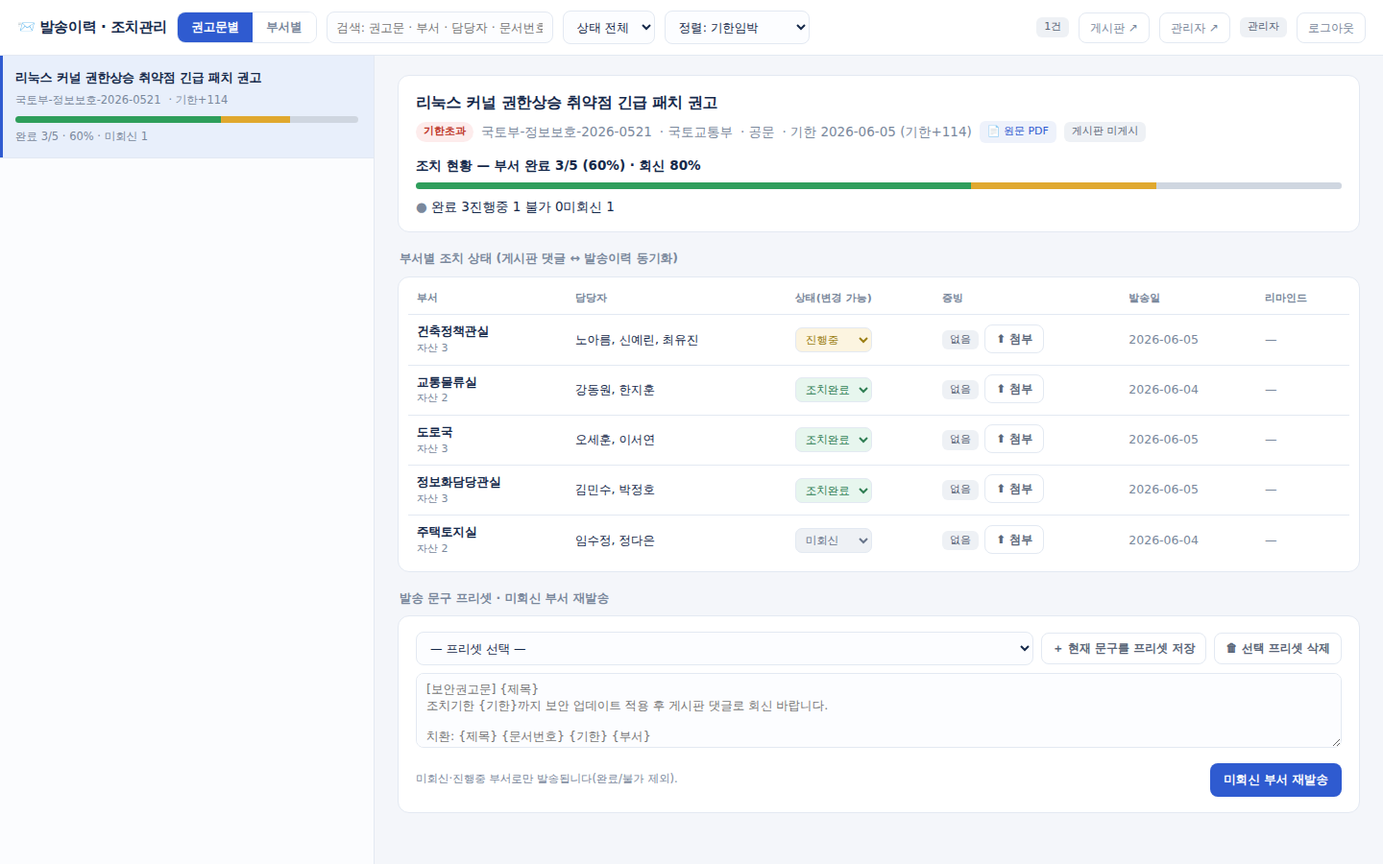
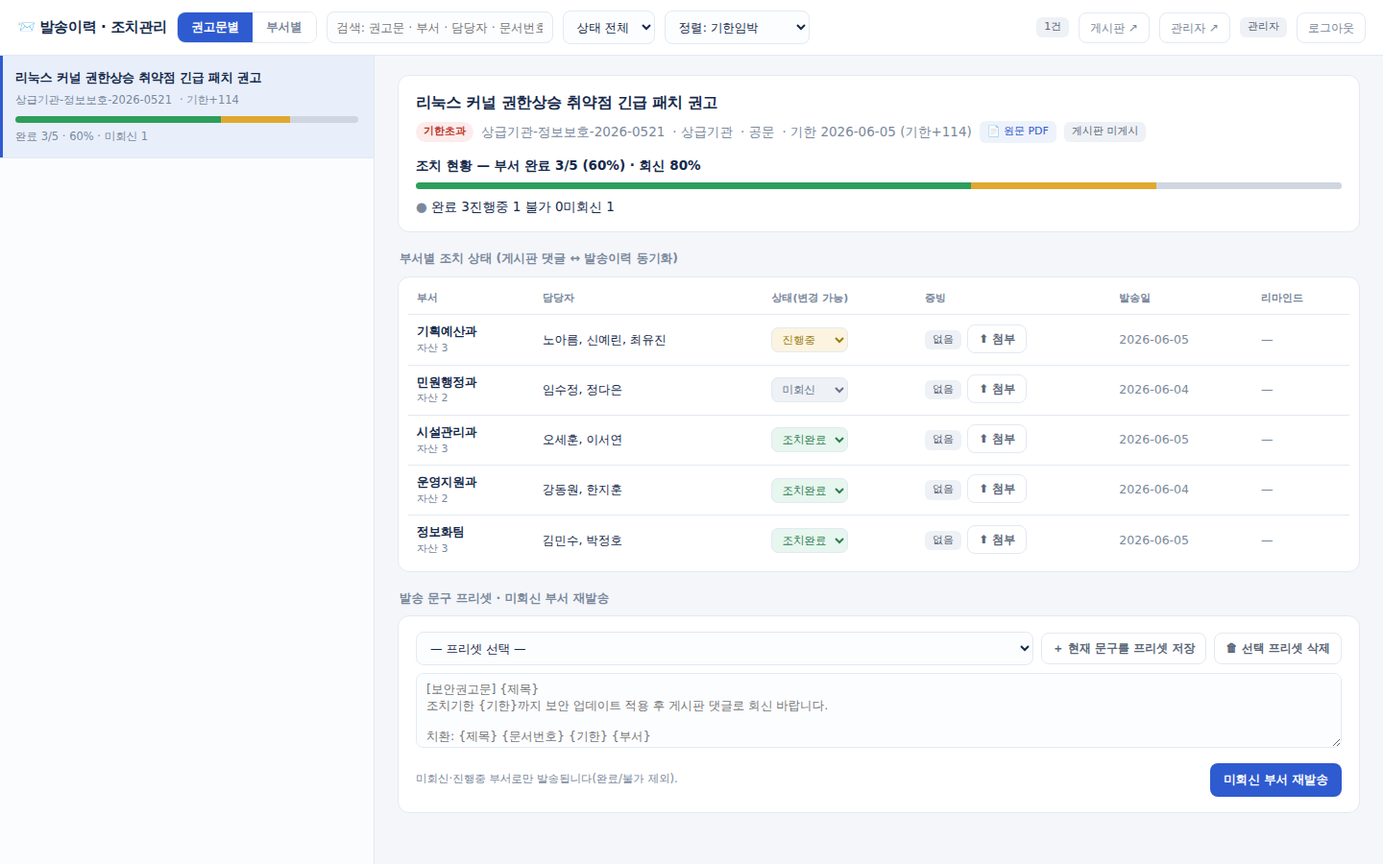
Replace real organization names in seed, tests, mockups and docs with generic ones
Claude-Session: https://claude.ai/code/session_019WHQmhFu6UJU12sLXYK4ET

diff --git a/mockups/board-mockup.html b/mockups/board-mockup.html
@@ -75,8 +75,8 @@
 <script>
 const ACK_KO={DONE:"조치완료",IN_PROGRESS:"진행중",UNABLE:"조치불가"};
 const CH_KO={NCST:"국정원 NCST",WEBMAIL:"웹메일",OFFICIAL_DOC:"공문"};
-const DEPTS=["도로국","철도국","항공정책실","물류정책관","건설정책국","정보통신담당관","기획조정실",
-  "주택정책관","교통물류실","대중교통과","자동차정책관","수자원정책국"].map((n,i)=>({id:i+1,name:n}));
+const DEPTS=["시설관리과","철도국","대외협력과","물류정책관","건설정책국","정보통신담당관","기획조정실",
+  "주택정책관","운영지원과","대중교통과","자동차정책관","수자원정책국"].map((n,i)=>({id:i+1,name:n}));
 const FILTER={q:"",excludeDone:true};
 let _searchT;
 
@@ -85,12 +85,12 @@ const ADV=[
   { id:1, doc_no:"국정원-사이버-2026-0612", title:"Microsoft Windows LSA 원격코드실행 취약점 긴급 조치 권고",
     source_org:"국가정보원", receive_channel:"NCST", received_at:"2026-06-15", due_at:"2026-06-22",
     d_day:3, sla_status:"IMMINENT", max_severity:"CRITICAL", max_severity_ko:"긴급", completed:false,
-    depts:[{name:"도로국",ack:"DONE"},{name:"철도국",ack:"IN_PROGRESS"},{name:"항공정책실",ack:"NONE"},{name:"정보통신담당관",ack:"NONE"}],
+    depts:[{name:"시설관리과",ack:"DONE"},{name:"철도국",ack:"IN_PROGRESS"},{name:"대외협력과",ack:"NONE"},{name:"정보통신담당관",ack:"NONE"}],
     assets:[
-      {asset_no:"PC-2207", dept:"도로국", product:"Windows 11", version:"23H2", owner_name:"박도로", owner_contact:"02-123-0102", severity:"CRITICAL", cve:"CVE-2026-21345"},
-      {asset_no:"SVR-0102", dept:"도로국", product:"Windows Server 2022", version:"21H2", owner_name:"박도로", owner_contact:"02-123-0102", severity:"HIGH", cve:"CVE-2026-21360"},
+      {asset_no:"PC-2207", dept:"시설관리과", product:"Windows 11", version:"23H2", owner_name:"박도로", owner_contact:"02-123-0102", severity:"CRITICAL", cve:"CVE-2026-21345"},
+      {asset_no:"SVR-0102", dept:"시설관리과", product:"Windows Server 2022", version:"21H2", owner_name:"박도로", owner_contact:"02-123-0102", severity:"HIGH", cve:"CVE-2026-21360"},
       {asset_no:"SVR-0310", dept:"철도국", product:"Windows Server 2022", version:"22H2", owner_name:"이철도", owner_contact:"02-123-0310", severity:"HIGH", cve:"CVE-2026-21360"},
-      {asset_no:"PC-5521", dept:"항공정책실", product:"Microsoft Office", version:"2021", owner_name:"정항공", owner_contact:"02-123-5521", severity:"HIGH", cve:"CVE-2026-21401"},
+      {asset_no:"PC-5521", dept:"대외협력과", product:"Microsoft Office", version:"2021", owner_name:"정항공", owner_contact:"02-123-5521", severity:"HIGH", cve:"CVE-2026-21401"},
       {asset_no:"PC-9001", dept:"정보통신담당관", product:"Windows 11", version:"22H2", owner_name:"김관제", owner_contact:"02-123-9001", severity:"CRITICAL", cve:"CVE-2026-21345"},
     ],
     cves:[
@@ -100,12 +100,12 @@ const ADV=[
     ],
     comments:[
       {id:101, author_name:"김관제", department:"정보통신담당관", is_admin:true, ack_status:null, created_at:"2026-06-16T09:12", body:"각 부서 자산 중 Windows 11 22H2/23H2, Server 2022 대상입니다. 6/22까지 패치 후 댓글로 회신 바랍니다."},
-      {id:102, author_name:"박도로", department:"도로국", is_admin:false, ack_status:"DONE", created_at:"2026-06-17T14:30", body:"PC-2207, SVR-0102 6월 정기패치로 적용 완료했습니다."},
+      {id:102, author_name:"박도로", department:"시설관리과", is_admin:false, ack_status:"DONE", created_at:"2026-06-17T14:30", body:"PC-2207, SVR-0102 6월 정기패치로 적용 완료했습니다."},
       {id:103, author_name:"이철도", department:"철도국", is_admin:false, ack_status:"IN_PROGRESS", created_at:"2026-06-18T10:05", body:"SVR-0310은 점검창구 일정상 6/21 야간작업 예정입니다."},
     ],
   },
-  { id:2, doc_no:"국토부-정보보호-2026-0531", title:"Apache Log4j2 관련 추가 취약점 점검 및 패치 권고(공문)",
-    source_org:"국토교통부", receive_channel:"OFFICIAL_DOC", received_at:"2026-06-10", due_at:"2026-06-30",
+  { id:2, doc_no:"상급기관-정보보호-2026-0531", title:"Apache Log4j2 관련 추가 취약점 점검 및 패치 권고(공문)",
+    source_org:"상급기관", receive_channel:"OFFICIAL_DOC", received_at:"2026-06-10", due_at:"2026-06-30",
     d_day:11, sla_status:"NORMAL", max_severity:"HIGH", max_severity_ko:"높음", completed:false,
     depts:[{name:"물류정책관",ack:"UNABLE"},{name:"건설정책국",ack:"DONE"},{name:"정보통신담당관",ack:"NONE"}],
     assets:[
@@ -124,11 +124,11 @@ const ADV=[
   { id:3, doc_no:"국정원-사이버-2026-0588", title:"Google Chrome V8 엔진 임의코드실행 취약점 (웹메일 통보)",
     source_org:"국가정보원", receive_channel:"WEBMAIL", received_at:"2026-06-05", due_at:"2026-06-12",
     d_day:-7, sla_status:"OVERDUE", max_severity:"HIGH", max_severity_ko:"높음", completed:false,
-    depts:[{name:"도로국",ack:"DONE"},{name:"철도국",ack:"DONE"},{name:"항공정책실",ack:"IN_PROGRESS"}],
+    depts:[{name:"시설관리과",ack:"DONE"},{name:"철도국",ack:"DONE"},{name:"대외협력과",ack:"IN_PROGRESS"}],
     assets:[
-      {asset_no:"PC-2207", dept:"도로국", product:"Google Chrome", version:"122", owner_name:"박도로", owner_contact:"02-123-0102", severity:"HIGH", cve:"CVE-2026-30012"},
+      {asset_no:"PC-2207", dept:"시설관리과", product:"Google Chrome", version:"122", owner_name:"박도로", owner_contact:"02-123-0102", severity:"HIGH", cve:"CVE-2026-30012"},
       {asset_no:"PC-3210", dept:"철도국", product:"Google Chrome", version:"121", owner_name:"이철도", owner_contact:"02-123-0310", severity:"HIGH", cve:"CVE-2026-30012"},
-      {asset_no:"PC-5521", dept:"항공정책실", product:"Google Chrome", version:"120", owner_name:"정항공", owner_contact:"02-123-5521", severity:"HIGH", cve:"CVE-2026-30012"},
+      {asset_no:"PC-5521", dept:"대외협력과", product:"Google Chrome", version:"120", owner_name:"정항공", owner_contact:"02-123-5521", severity:"HIGH", cve:"CVE-2026-30012"},
     ],
     cves:[{cve_id_text:"CVE-2026-30012", severity:"HIGH", product_name:"Google Chrome", lookup_status:"FOUND"}],
     comments:[{id:301, author_name:"김관제", department:"정보통신담당관", is_admin:true, ack_status:null, created_at:"2026-06-06T09:00", body:"전 부서 크롬 124 미만 → 124 이상으로 업데이트 바랍니다."}],

diff --git a/mockups/history-A-master-detail.html b/mockups/history-A-master-detail.html
@@ -47,11 +47,11 @@ const KO={DONE:"완료",IN_PROGRESS:"진행중",UNABLE:"불가",NONE:"미회신"
 const CH={NCST:"국정원 NCST",WEBMAIL:"웹메일",OFFICIAL_DOC:"공문"};
 const ADVS=[
  {id:1,doc:"국정원-사이버-2026-0612",title:"Windows LSA 원격코드실행 긴급 조치",org:"국가정보원",ch:"NCST",sev:"CRITICAL",due:"2026-06-22",dday:3,
-  depts:[{dept:"도로국",owner:"박도로",status:"DONE",sent:"06-16",ev:"패치완료_도로국.png"},{dept:"철도국",owner:"이철도",status:"IN_PROGRESS",sent:"06-16",ev:null},{dept:"항공정책실",owner:"정항공",status:"NONE",sent:"06-16",ev:null},{dept:"정보통신담당관",owner:"김관제",status:"DONE",sent:"06-16",ev:"점검스크린샷.png"}]},
- {id:2,doc:"국토부-정보보호-2026-0531",title:"Apache Log4j2 추가 취약점 패치",org:"국토교통부",ch:"OFFICIAL_DOC",sev:"HIGH",due:"2026-06-30",dday:11,
+  depts:[{dept:"시설관리과",owner:"박도로",status:"DONE",sent:"06-16",ev:"패치완료_시설관리과.png"},{dept:"철도국",owner:"이철도",status:"IN_PROGRESS",sent:"06-16",ev:null},{dept:"대외협력과",owner:"정항공",status:"NONE",sent:"06-16",ev:null},{dept:"정보통신담당관",owner:"김관제",status:"DONE",sent:"06-16",ev:"점검스크린샷.png"}]},
+ {id:2,doc:"상급기관-정보보호-2026-0531",title:"Apache Log4j2 추가 취약점 패치",org:"상급기관",ch:"OFFICIAL_DOC",sev:"HIGH",due:"2026-06-30",dday:11,
   depts:[{dept:"물류정책관",owner:"정물류",status:"UNABLE",sent:"06-11",ev:null},{dept:"건설정책국",owner:"한건설",status:"DONE",sent:"06-11",ev:"조치결과.pdf"},{dept:"정보통신담당관",owner:"김관제",status:"NONE",sent:"06-11",ev:null}]},
  {id:3,doc:"국정원-사이버-2026-0588",title:"Google Chrome V8 임의코드실행",org:"국가정보원",ch:"WEBMAIL",sev:"HIGH",due:"2026-06-12",dday:-7,
-  depts:[{dept:"도로국",owner:"박도로",status:"DONE",sent:"06-06",ev:"chrome_update.png"},{dept:"철도국",owner:"이철도",status:"DONE",sent:"06-06",ev:null},{dept:"항공정책실",owner:"정항공",status:"IN_PROGRESS",sent:"06-06",ev:null}]},
+  depts:[{dept:"시설관리과",owner:"박도로",status:"DONE",sent:"06-06",ev:"chrome_update.png"},{dept:"철도국",owner:"이철도",status:"DONE",sent:"06-06",ev:null},{dept:"대외협력과",owner:"정항공",status:"IN_PROGRESS",sent:"06-06",ev:null}]},
 ];
 const PRESETS=["[긴급] 보안권고 즉시조치 요청","[정기] 월간 보안패치 안내","[리마인드] 조치기한 임박 안내"];
 let VIEW="adv", SEL=1;

diff --git a/mockups/history-B-table.html b/mockups/history-B-table.html
@@ -41,11 +41,11 @@ const KO={DONE:"완료",IN_PROGRESS:"진행중",UNABLE:"불가",NONE:"미회신"
 const CH={NCST:"국정원 NCST",WEBMAIL:"웹메일",OFFICIAL_DOC:"공문"};
 const ADVS=[
  {id:1,doc:"국정원-사이버-2026-0612",title:"Windows LSA 원격코드실행 긴급 조치",org:"국가정보원",ch:"NCST",sev:"CRITICAL",due:"2026-06-22",dday:3,
-  depts:[{dept:"도로국",owner:"박도로",status:"DONE",sent:"06-16",ev:"패치완료_도로국.png"},{dept:"철도국",owner:"이철도",status:"IN_PROGRESS",sent:"06-16",ev:null},{dept:"항공정책실",owner:"정항공",status:"NONE",sent:"06-16",ev:null},{dept:"정보통신담당관",owner:"김관제",status:"DONE",sent:"06-16",ev:"점검스크린샷.png"}]},
- {id:2,doc:"국토부-정보보호-2026-0531",title:"Apache Log4j2 추가 취약점 패치",org:"국토교통부",ch:"OFFICIAL_DOC",sev:"HIGH",due:"2026-06-30",dday:11,
+  depts:[{dept:"시설관리과",owner:"박도로",status:"DONE",sent:"06-16",ev:"패치완료_시설관리과.png"},{dept:"철도국",owner:"이철도",status:"IN_PROGRESS",sent:"06-16",ev:null},{dept:"대외협력과",owner:"정항공",status:"NONE",sent:"06-16",ev:null},{dept:"정보통신담당관",owner:"김관제",status:"DONE",sent:"06-16",ev:"점검스크린샷.png"}]},
+ {id:2,doc:"상급기관-정보보호-2026-0531",title:"Apache Log4j2 추가 취약점 패치",org:"상급기관",ch:"OFFICIAL_DOC",sev:"HIGH",due:"2026-06-30",dday:11,
   depts:[{dept:"물류정책관",owner:"정물류",status:"UNABLE",sent:"06-11",ev:null},{dept:"건설정책국",owner:"한건설",status:"DONE",sent:"06-11",ev:"조치결과.pdf"},{dept:"정보통신담당관",owner:"김관제",status:"NONE",sent:"06-11",ev:null}]},
  {id:3,doc:"국정원-사이버-2026-0588",title:"Google Chrome V8 임의코드실행",org:"국가정보원",ch:"WEBMAIL",sev:"HIGH",due:"2026-06-12",dday:-7,
-  depts:[{dept:"도로국",owner:"박도로",status:"DONE",sent:"06-06",ev:"chrome_update.png"},{dept:"철도국",owner:"이철도",status:"DONE",sent:"06-06",ev:null},{dept:"항공정책실",owner:"정항공",status:"IN_PROGRESS",sent:"06-06",ev:null}]},
+  depts:[{dept:"시설관리과",owner:"박도로",status:"DONE",sent:"06-06",ev:"chrome_update.png"},{dept:"철도국",owner:"이철도",status:"DONE",sent:"06-06",ev:null},{dept:"대외협력과",owner:"정항공",status:"IN_PROGRESS",sent:"06-06",ev:null}]},
 ];
 let VIEW="adv",SORT="due",DIR=1,OPEN={};
 const esc=s=>(s==null?"":String(s)).replace(/[&<>"]/g,c=>({"&":"&amp;","<":"&lt;",">":"&gt;","\"":"&quot;"}[c]));

diff --git a/mockups/history-C-kanban.html b/mockups/history-C-kanban.html
@@ -40,11 +40,11 @@ const COLS=["NONE","IN_PROGRESS","DONE","UNABLE"];
 const CH={NCST:"국정원 NCST",WEBMAIL:"웹메일",OFFICIAL_DOC:"공문"};
 const ADVS=[
  {id:1,doc:"국정원-사이버-2026-0612",title:"Windows LSA 원격코드실행 긴급 조치",org:"국가정보원",ch:"NCST",sev:"CRITICAL",due:"2026-06-22",
-  depts:[{dept:"도로국",owner:"박도로",status:"DONE",ev:"패치완료_도로국.png"},{dept:"철도국",owner:"이철도",status:"IN_PROGRESS",ev:null},{dept:"항공정책실",owner:"정항공",status:"NONE",ev:null},{dept:"정보통신담당관",owner:"김관제",status:"DONE",ev:"점검스크린샷.png"}]},
- {id:2,doc:"국토부-정보보호-2026-0531",title:"Apache Log4j2 추가 취약점 패치",org:"국토교통부",ch:"OFFICIAL_DOC",sev:"HIGH",due:"2026-06-30",
+  depts:[{dept:"시설관리과",owner:"박도로",status:"DONE",ev:"패치완료_시설관리과.png"},{dept:"철도국",owner:"이철도",status:"IN_PROGRESS",ev:null},{dept:"대외협력과",owner:"정항공",status:"NONE",ev:null},{dept:"정보통신담당관",owner:"김관제",status:"DONE",ev:"점검스크린샷.png"}]},
+ {id:2,doc:"상급기관-정보보호-2026-0531",title:"Apache Log4j2 추가 취약점 패치",org:"상급기관",ch:"OFFICIAL_DOC",sev:"HIGH",due:"2026-06-30",
   depts:[{dept:"물류정책관",owner:"정물류",status:"UNABLE",ev:null},{dept:"건설정책국",owner:"한건설",status:"DONE",ev:"조치결과.pdf"},{dept:"정보통신담당관",owner:"김관제",status:"NONE",ev:null}]},
  {id:3,doc:"국정원-사이버-2026-0588",title:"Google Chrome V8 임의코드실행",org:"국가정보원",ch:"WEBMAIL",sev:"HIGH",due:"2026-06-12",
-  depts:[{dept:"도로국",owner:"박도로",status:"DONE",ev:"chrome_update.png"},{dept:"철도국",owner:"이철도",status:"DONE",ev:null},{dept:"항공정책실",owner:"정항공",status:"IN_PROGRESS",ev:null}]},
+  depts:[{dept:"시설관리과",owner:"박도로",status:"DONE",ev:"chrome_update.png"},{dept:"철도국",owner:"이철도",status:"DONE",ev:null},{dept:"대외협력과",owner:"정항공",status:"IN_PROGRESS",ev:null}]},
 ];
 let VIEW="pair";
 const esc=s=>(s==null?"":String(s)).replace(/[&<>"]/g,c=>({"&":"&amp;","<":"&lt;",">":"&gt;","\"":"&quot;"}[c]));

diff --git a/app/seed.py b/app/seed.py
@@ -21,28 +21,28 @@ from .models import (
 )
 
 DEPARTMENTS = [
-    "정보화담당관실", "도로국", "건축정책관실", "교통물류실",
-    "국토정책관실", "주택토지실", "항공정책실", "수자원정책관실",
+    "정보화팀", "시설관리과", "기획예산과", "운영지원과",
+    "정책기획과", "민원행정과", "대외협력과", "환경안전과",
 ]
 
 # product_raw, product_key, version_raw/version_norm 는 동일 문자열 사용.
 ASSETS = [
-    ("PC-0142", "정보화담당관실", "Windows 11", "windows_11", "23H2", "10.20.3.14", "김민수"),
-    ("PC-0188", "도로국", "Windows 11", "windows_11", "22H2", "10.20.5.21", "이서연"),
-    ("PC-0233", "건축정책관실", "Windows 11", "windows_11", "23H2", "10.20.6.33", "최유진"),
-    ("PC-0260", "교통물류실", "Windows 11", "windows_11", "22H2", "10.20.7.12", "한지훈"),
-    ("PC-0420", "국토정책관실", "Windows 11", "windows_11", "23H2", "10.20.9.07", "윤가람"),
-    ("PC-0301", "주택토지실", "Windows 10", "windows_10", "22H2", "10.20.8.44", "정다은"),
-    ("SRV-002", "정보화담당관실", "Windows Server", "windows_server", "2022", "10.20.1.05", "박정호"),
-    ("SRV-009", "도로국", "Windows Server", "windows_server", "2019", "10.20.1.21", "오세훈"),
-    ("OFC-110", "건축정책관실", "Microsoft Office", "microsoft_office", "2021", None, "신예린"),
-    ("OFC-118", "교통물류실", "Microsoft Office", "microsoft_office", "2019", None, "강동원"),
-    ("OFC-203", "주택토지실", "Microsoft Office", "microsoft_office", "2021", None, "임수정"),
-    ("WEB-031", "정보화담당관실", "Google Chrome", "google_chrome", "122.x", None, "자동배포"),
-    ("WEB-044", "도로국", "Google Chrome", "google_chrome", "121.x", None, "자동배포"),
-    ("HWP-070", "항공정책실", "한컴오피스", "hancom_office", "2022", None, "송민재"),
-    ("HWP-072", "수자원정책관실", "한컴오피스", "hancom_office", "2020", None, "배현우"),
-    ("PDF-090", "건축정책관실", "Adobe Acrobat", "adobe_acrobat", "DC 2021", None, "노아름"),
+    ("PC-0142", "정보화팀", "Windows 11", "windows_11", "23H2", "10.20.3.14", "김민수"),
+    ("PC-0188", "시설관리과", "Windows 11", "windows_11", "22H2", "10.20.5.21", "이서연"),
+    ("PC-0233", "기획예산과", "Windows 11", "windows_11", "23H2", "10.20.6.33", "최유진"),
+    ("PC-0260", "운영지원과", "Windows 11", "windows_11", "22H2", "10.20.7.12", "한지훈"),
+    ("PC-0420", "정책기획과", "Windows 11", "windows_11", "23H2", "10.20.9.07", "윤가람"),
+    ("PC-0301", "민원행정과", "Windows 10", "windows_10", "22H2", "10.20.8.44", "정다은"),
+    ("SRV-002", "정보화팀", "Windows Server", "windows_server", "2022", "10.20.1.05", "박정호"),
+    ("SRV-009", "시설관리과", "Windows Server", "windows_server", "2019", "10.20.1.21", "오세훈"),
+    ("OFC-110", "기획예산과", "Microsoft Office", "microsoft_office", "2021", None, "신예린"),
+    ("OFC-118", "운영지원과", "Microsoft Office", "microsoft_office", "2019", None, "강동원"),
+    ("OFC-203", "민원행정과", "Microsoft Office", "microsoft_office", "2021", None, "임수정"),
+    ("WEB-031", "정보화팀", "Google Chrome", "google_chrome", "122.x", None, "자동배포"),
+    ("WEB-044", "시설관리과", "Google Chrome", "google_chrome", "121.x", None, "자동배포"),
+    ("HWP-070", "대외협력과", "한컴오피스", "hancom_office", "2022", None, "송민재"),
+    ("HWP-072", "환경안전과", "한컴오피스", "hancom_office", "2020", None, "배현우"),
+    ("PDF-090", "기획예산과", "Adobe Acrobat", "adobe_acrobat", "DC 2021", None, "노아름"),
 ]
 
 # 기본 등록 CVE(조회 가능). 한컴/Acrobat 2건은 피드로 추가(samples/).
@@ -157,14 +157,14 @@ def seed(db: Session) -> None:
 
     # 과거 완료 권고문 + 발송 이력(대시보드/이력 화면용).
     past = Advisory(
-        doc_no="국토부-정보보호-2026-0521",
+        doc_no="상급기관-정보보호-2026-0521",
         title="리눅스 커널 권한상승 취약점 긴급 패치 권고",
-        source_org="국토교통부", receive_channel=enums.ReceiveChannel.OFFICIAL_DOC,
+        source_org="상급기관", receive_channel=enums.ReceiveChannel.OFFICIAL_DOC,
         received_at=date(2026, 5, 28), due_at=date(2026, 6, 5),
         page_count=1, extracted_text="CVE-2026-10010 linux kernel",
         status=enums.AdvisoryStatus.COMPLETED, uploaded_by=analyst.id,
     )
-    ppdf = _minimal_pdf(["Linux Kernel EoP Advisory", "Doc: 국토부-정보보호-2026-0521"])
+    ppdf = _minimal_pdf(["Linux Kernel EoP Advisory", "Doc: 상급기관-정보보호-2026-0521"])
     psha = extract.sha256_bytes(ppdf)
     secure_write_bytes(UPLOAD_DIR / f"{psha}.pdf", ppdf)
     past.file_path = str(UPLOAD_DIR / f"{psha}.pdf")
@@ -174,11 +174,11 @@ def seed(db: Session) -> None:
 
     base_dt = datetime(2026, 6, 5, 14, 22, tzinfo=timezone.utc)
     for i, (dept, acked, channels) in enumerate([
-        ("정보화담당관실", enums.AckStatus.DONE, ["MESSENGER", "MAIL"]),
-        ("도로국", enums.AckStatus.DONE, ["MESSENGER", "MAIL"]),
-        ("건축정책관실", enums.AckStatus.IN_PROGRESS, ["MAIL"]),
-        ("교통물류실", enums.AckStatus.DONE, ["MESSENGER"]),
-        ("주택토지실", enums.AckStatus.NONE, ["MAIL"]),
+        ("정보화팀", enums.AckStatus.DONE, ["MESSENGER", "MAIL"]),
+        ("시설관리과", enums.AckStatus.DONE, ["MESSENGER", "MAIL"]),
+        ("기획예산과", enums.AckStatus.IN_PROGRESS, ["MAIL"]),
+        ("운영지원과", enums.AckStatus.DONE, ["MESSENGER"]),
+        ("민원행정과", enums.AckStatus.NONE, ["MAIL"]),
     ]):
         dept_asset_ids = list(db.scalars(
             select(Asset.id).where(Asset.department_id == depts[dept].id).limit(3)))

diff --git a/smoke_test.py b/smoke_test.py
@@ -179,7 +179,7 @@ with TestClient(app) as c:
     wb = Workbook()
     ws = wb.active
     ws.append(["자산번호", "사용부서", "운영체제/SW", "세부버전", "IP", "담당자"])
-    ws.append(["PC-9001", "도로국", "Windows 11", "23H2", "10.20.5.99", "테스터"])
+    ws.append(["PC-9001", "시설관리과", "Windows 11", "23H2", "10.20.5.99", "테스터"])
     ws.append(["PC-9002", "없는부서", "Windows 11", "22H2", "", "미상"])
     buf = io.BytesIO()
     wb.save(buf)
@@ -256,9 +256,9 @@ with TestClient(app) as c:
     r = c.post(f"/api/v1/advisories/{aid}/board").json()
     check("게시판 게시", str(r.get("board_post_id", "")).startswith("BOARD-"), r)
     r = signed_webhook_post(c, "/api/v1/webhooks/groupware/ack",
-                            {"department": "도로국", "status": "완료", "by": "댓글회신"})
+                            {"department": "시설관리과", "status": "완료", "by": "댓글회신"})
     check("게시판 회신→ack 동기화", r.status_code == 200 and r.json()["ack_status"] == "DONE", r.status_code)
-    r = c.post("/api/v1/webhooks/groupware/ack", json={"department": "도로국", "status": "완료"})
+    r = c.post("/api/v1/webhooks/groupware/ack", json={"department": "시설관리과", "status": "완료"})
     check("무서명 웹훅 거부(H-4)", r.status_code == 401, r.status_code)
     # ── 대시보드 SLA ──
     dash2 = c.get("/api/v1/dashboard").json()
@@ -269,14 +269,14 @@ with TestClient(app) as c:
     ws2 = wb2.active
     ws2.append(["○○부 자산관리대장", None, None, None, None, None])              # 1행: 제목(병합)
     ws2.append(["자산번호", "사용부서", "운영체제/SW", "세부버전", "IP", "담당자"])  # 2행: 실제 헤더
-    ws2.append(["PC-2001", "정보화담당관실", "Windows 11", "23H2", "10.30.1.1", "박하나"])
+    ws2.append(["PC-2001", "정보화팀", "Windows 11", "23H2", "10.30.1.1", "박하나"])
     ws2.append(["PC-2002", None, "Windows 11", "22H2", "10.30.1.2", "박두리"])      # 부서 세로병합
-    ws2.append(["PC-2003", "도로국", "Windows Server", "2022", "10.30.2.1", "이세찬"])
+    ws2.append(["PC-2003", "시설관리과", "Windows Server", "2022", "10.30.2.1", "이세찬"])
     ws2.append(["PC-2004", None, "Microsoft Office", "2021", "", "이네찬"])         # 부서 세로병합
     ws2.append(["PC-2005", None, "Google Chrome", "122.x", "", "이다찬"])           # 부서 세로병합
     ws2.merge_cells("A1:F1")
-    ws2.merge_cells("B3:B4")   # 정보화담당관실 (행3~4)
-    ws2.merge_cells("B5:B7")   # 도로국 (행5~7)
+    ws2.merge_cells("B3:B4")   # 정보화팀 (행3~4)
+    ws2.merge_cells("B5:B7")   # 시설관리과 (행5~7)
     buf2 = io.BytesIO()
     wb2.save(buf2)
     buf2.seek(0)
@@ -291,15 +291,15 @@ with TestClient(app) as c:
     dept_warn = [w for w in r["warnings"] if "DEPARTMENT" in w["issue"]]
     check("세로병합 부서 채움→5행 전부 적재(누락 0)", r["committed"] == 5 and len(dept_warn) == 0, r)
     a = c.get("/api/v1/assets?q=PC-2005").json()["items"]
-    check("병합 마지막행 부서=도로국(채워짐)", bool(a) and a[0]["department"] == "도로국", a)
+    check("병합 마지막행 부서=시설관리과(채워짐)", bool(a) and a[0]["department"] == "시설관리과", a)
 
     # ========== 엑셀: 2층(다단) 헤더 결합 ==========
     wb3 = Workbook()
     ws3 = wb3.active
     ws3.append(["자산번호", "사용부서", "제품", None, "담당자"])   # 1층: 그룹 라벨
     ws3.append([None, None, "OS", "버전", None])                  # 2층: 세부 라벨
-    ws3.append(["PC-3001", "정보화담당관실", "Windows 11", "23H2", "담당가"])
-    ws3.append(["PC-3002", "도로국", "Windows Server", "2022", "담당나"])
+    ws3.append(["PC-3001", "정보화팀", "Windows 11", "23H2", "담당가"])
+    ws3.append(["PC-3002", "시설관리과", "Windows Server", "2022", "담당나"])
     ws3.merge_cells("C1:D1")  # "제품" 이 OS·버전 두 칸 위에 걸침
     ws3.merge_cells("A1:A2"); ws3.merge_cells("B1:B2"); ws3.merge_cells("E1:E2")  # 세로 병합 헤더
     buf3 = io.BytesIO()

diff --git a/tests/test_assets_import_custom_fields.py b/tests/test_assets_import_custom_fields.py
@@ -10,8 +10,8 @@ from openpyxl import Workbook
 def _xlsx_bytes():
     wb = Workbook(); ws = wb.active
     ws.append(["부서", "제품", "구매일자", "비고"])
-    ws.append(["정보화담당관실", "Windows 11 23H2", "2025-01-15", "리스자산"])
-    ws.append(["도로국", "Microsoft Office 2021", "2024-11-02", ""])
+    ws.append(["정보화팀", "Windows 11 23H2", "2025-01-15", "리스자산"])
+    ws.append(["시설관리과", "Microsoft Office 2021", "2024-11-02", ""])
     buf = io.BytesIO(); wb.save(buf); return buf.getvalue()
 
 
@@ -32,7 +32,7 @@ def test_custom_named_field_stored_in_extra(client):
     from app.db import SessionLocal
     from app.models import Asset, Department
     with SessionLocal() as db:
-        dept = db.query(Department).filter(Department.name == "정보화담당관실").first()
+        dept = db.query(Department).filter(Department.name == "정보화팀").first()
         a = db.query(Asset).filter(Asset.department_id == dept.id).first()
         assert a is not None
         assert a.extra.get("구매일자") == "2025-01-15", a.extra   # 이름 키 저장 ✅

diff --git a/tests/test_extraction_overhaul_api.py b/tests/test_extraction_overhaul_api.py
@@ -151,10 +151,10 @@ def test_bulk_source_only_empty(client, cleanup):
     cleanup["advisory"] += [a1, a2]
 
     r = client.post("/api/v1/advisories/source-org",
-                    json={"ids": [a1, a2], "source_org": "국토부", "only_empty": True})
+                    json={"ids": [a1, a2], "source_org": "상급기관", "only_empty": True})
     assert r.status_code == 200
-    assert r.json() == {"updated": 1, "skipped": 1, "source_org": "국토부"}
-    assert client.get(f"/api/v1/advisories/{a1}").json()["source_org"] == "국토부"
+    assert r.json() == {"updated": 1, "skipped": 1, "source_org": "상급기관"}
+    assert client.get(f"/api/v1/advisories/{a1}").json()["source_org"] == "상급기관"
     assert client.get(f"/api/v1/advisories/{a2}").json()["source_org"] == "국정원"
 
 

diff --git a/tests/test_ops_followup.py b/tests/test_ops_followup.py
@@ -106,7 +106,7 @@ def test_feed_apply_failure_marks_history_failed(client):
 
 def test_advisory_index_search_and_products_in_list(client, cleanup):
     """문서번호 중심 관리 인덱스(§개편 후속 6) — CVE 없어도 문서번호·제품으로 검색."""
-    aid = _upload(client, ["Tomcat vuln"], doc_no="국토부-특별-2026-777", source_org="국토부")
+    aid = _upload(client, ["Tomcat vuln"], doc_no="상급기관-특별-2026-777", source_org="상급기관")
     cleanup["advisory"].append(aid)
     client.post(f"/api/v1/advisories/{aid}/products",
                 json={"product_name": "Apache Tomcat", "affected_versions": {"lte": "9.0.30"}})

diff --git a/app/core/groupware.py b/app/core/groupware.py
@@ -42,7 +42,7 @@ def post_board(advisory_id: int, doc_no: str, title: str, body: str) -> str:
 def parse_ack_webhook(payload: dict) -> dict | None:
     """게시판 댓글 회신 웹훅 → 표준 ack 형태로 정규화.
 
-    기대 payload(예): {"department":"도로국","status":"DONE"|"IN_PROGRESS"|"UNABLE","note":"..","by":".."}
+    기대 payload(예): {"department":"시설관리과","status":"DONE"|"IN_PROGRESS"|"UNABLE","note":"..","by":".."}
     그룹웨어별 필드명이 다르면 여기서 매핑한다.
     """
     dept = payload.get("department") or payload.get("dept")

diff --git a/app/core/reports.py b/app/core/reports.py
@@ -1,4 +1,4 @@
-"""조치 결과 보고서 자동 생성 (§★★★★★) — 국정원/국토부 제출용.
+"""조치 결과 보고서 자동 생성 (§★★★★★) — 국정원/상급기관 제출용.
 
 · Excel(.xlsx) : openpyxl — 표 형태 제출 산출물.
 · HTML        : 한글 완벽 렌더 + 브라우저 인쇄(Ctrl+P)로 PDF 저장(폰트 의존 없는 포터블 PDF 경로).

diff --git a/docs/PROGRESS.en.md b/docs/PROGRESS.en.md
@@ -4,7 +4,7 @@
 
 ## Final goal
 
-Handle the full lifecycle of a security advisory PDF (Portable Document Format) received from agencies such as the National Intelligence Service or the Ministry of Land, Infrastructure and Transport in one system: CVE (Common Vulnerabilities and Exposures) extraction → local CVE DB (database) lookup → asset matching → per-department dispatch → remediation reply tracking. It must install, run and operate on an air-gapped network with no internet, and let a single security operator process advisories without repetitive manual work.
+Handle the full lifecycle of a security advisory PDF (Portable Document Format) received from agencies such as the National Intelligence Service or supervising agencies in one system: CVE (Common Vulnerabilities and Exposures) extraction → local CVE DB (database) lookup → asset matching → per-department dispatch → remediation reply tracking. It must install, run and operate on an air-gapped network with no internet, and let a single security operator process advisories without repetitive manual work.
 
 ## Current implementation status
 
